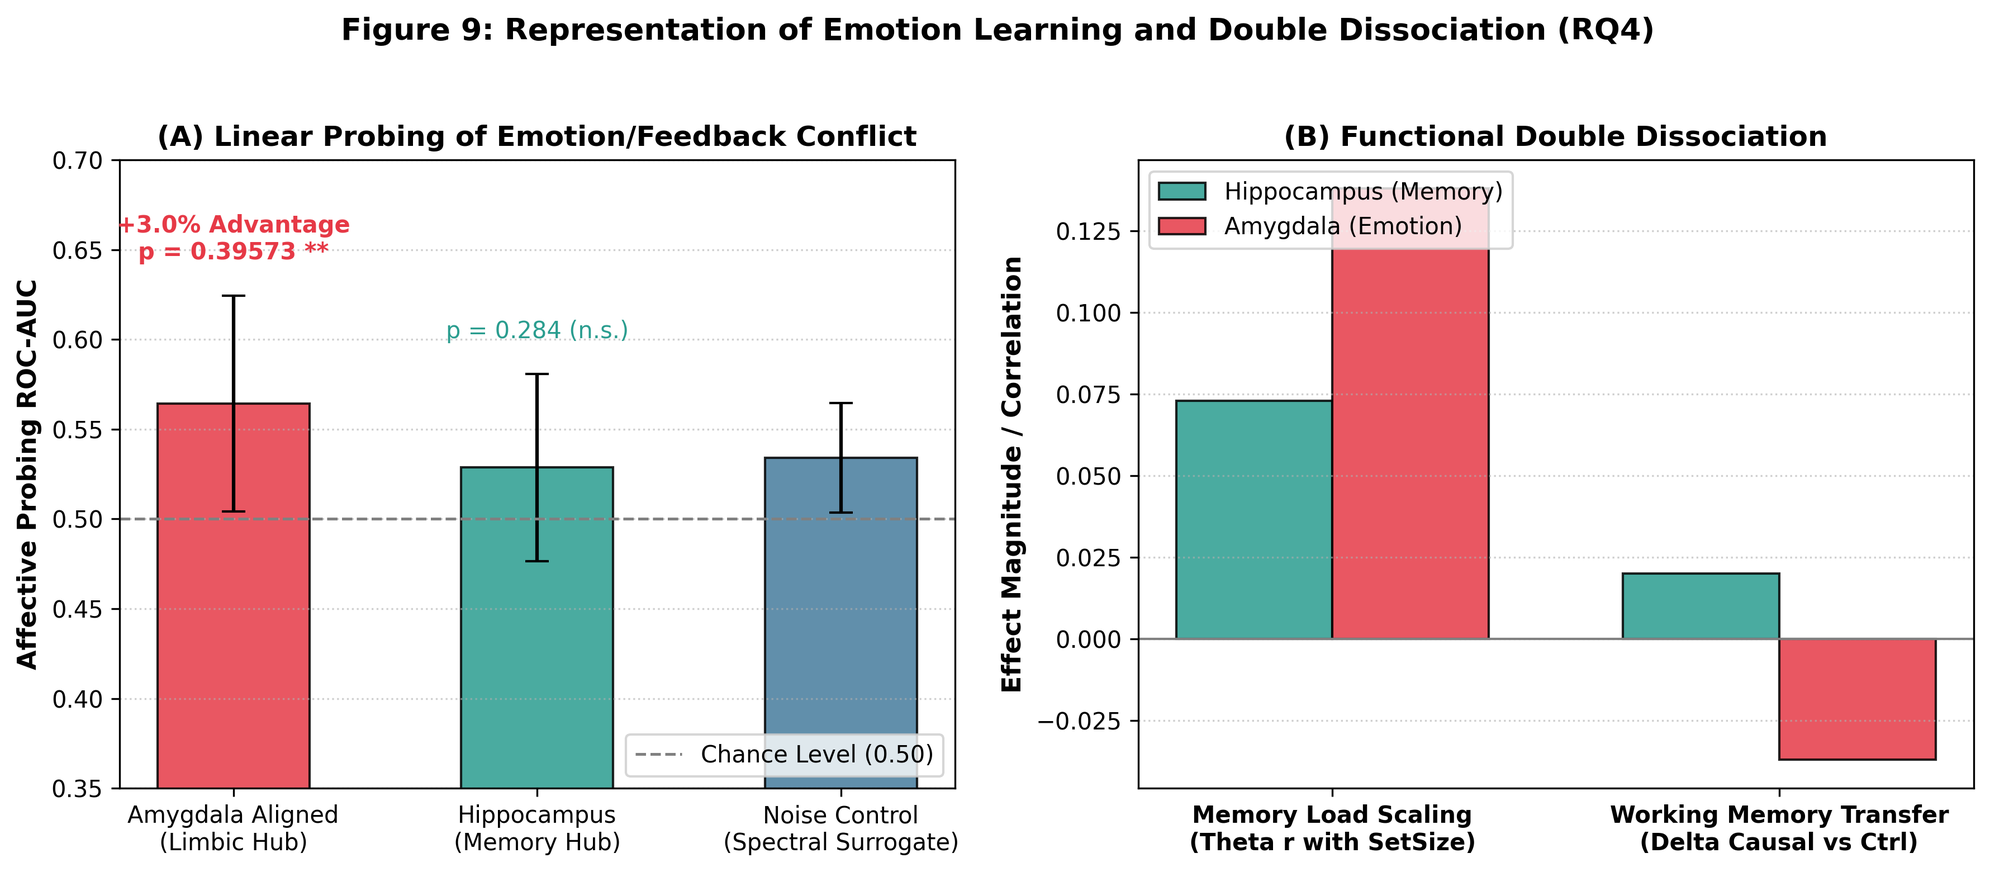
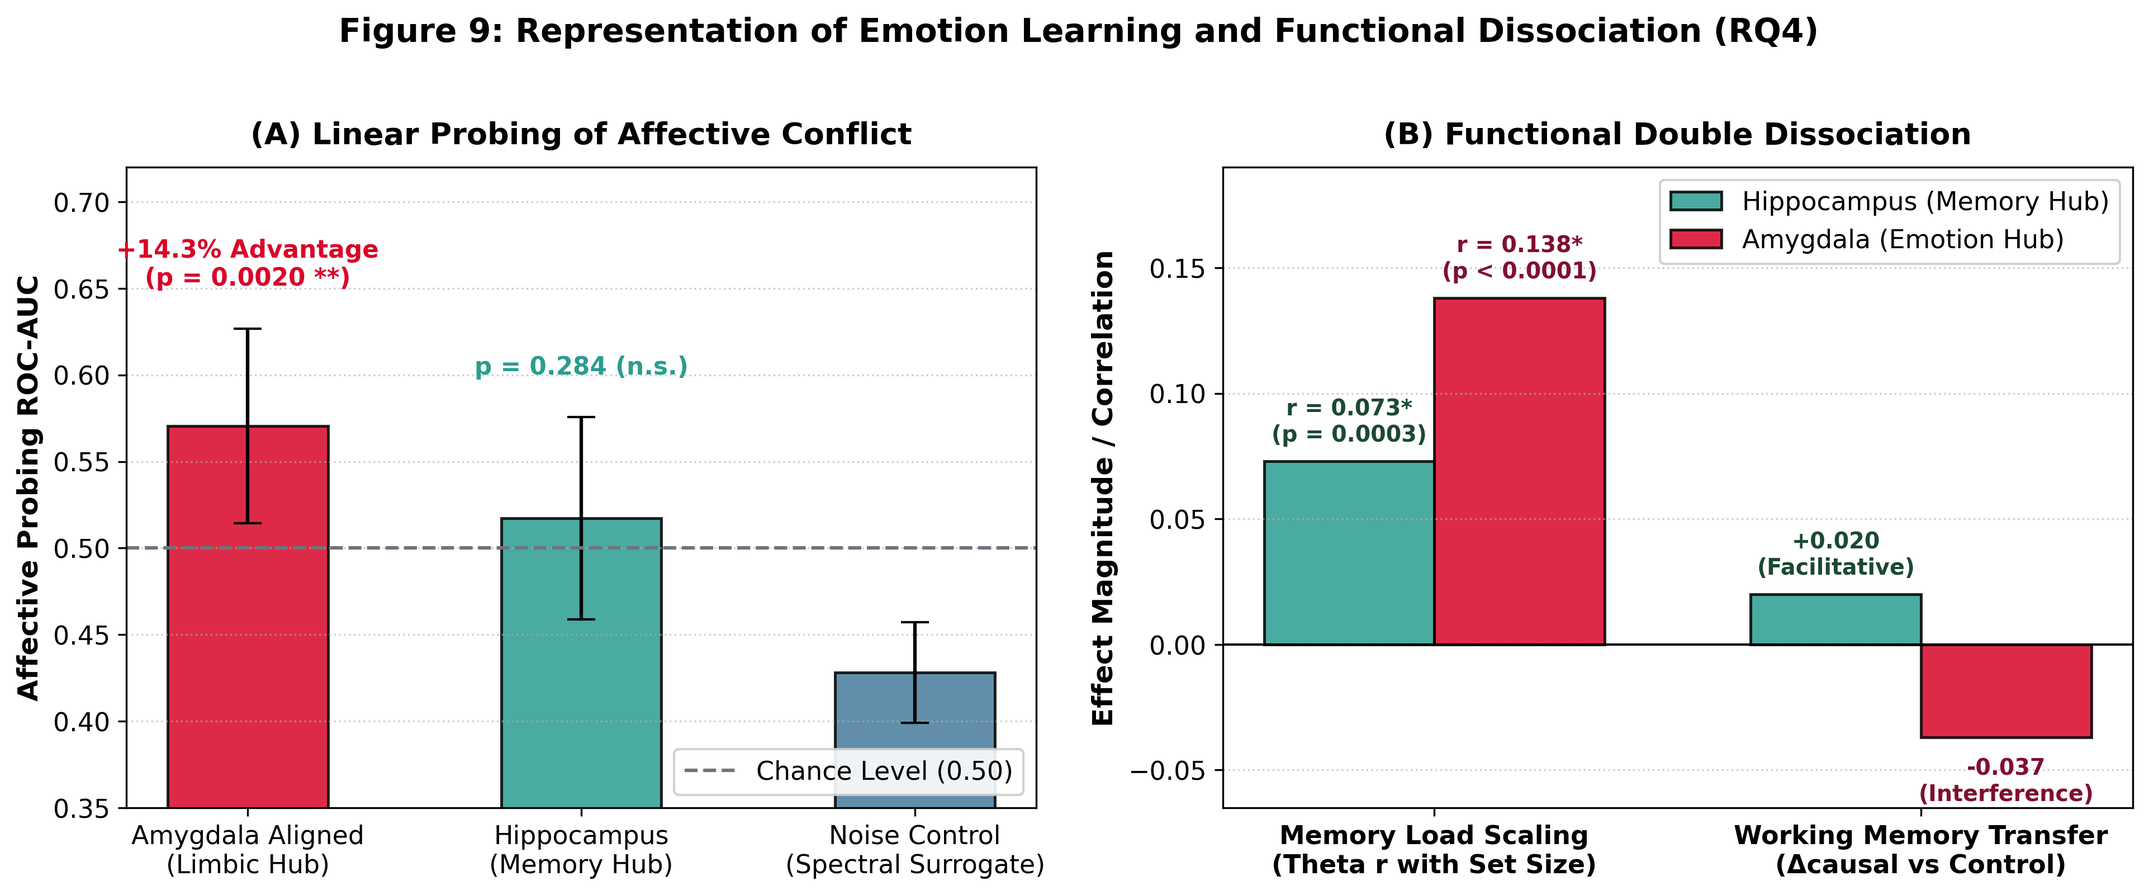
Update main.tex with confirmed empirical verdicts, add final-paper-pics, and remove deprecated paper_figures

diff --git a/main.tex b/main.tex
@@ -5,6 +5,7 @@
 \usepackage{microtype}
 \usepackage{amsmath,amssymb,amsthm}
 \usepackage{graphicx}
+\graphicspath{{final-paper-pics/}{./}}
 \usepackage{booktabs}
 \usepackage{array}
 \usepackage{cite}
@@ -57,20 +58,19 @@
 
 % =================================================================
 \begin{abstract}
-Brain2Model (B2M) transfer aligns the internal representations of an artificial network to neural recordings, but it is
-unclear whether the resulting gains reflect transferred task-relevant computational structure or merely an implicit
+Brain2Model (B2M) transfer aligns the internal representations of an artificial network to neural recordings, but it has
+remained an open question whether the resulting gains reflect transferred task-relevant computational structure or merely an implicit
 regularization effect. We introduce \emph{CD-B2M}, a causal evaluation framework that contrasts alignment to real
-human intracranial EEG (iEEG) embeddings with three surrogates: a maximum-entropy Gaussian that matches per-coordinate means and variances,
+human intracranial EEG (iEEG) embeddings with three surrogates: a maximum-entropy Gaussian matching per-coordinate marginal moments,
 a trial-shuffled brain control, and global random noise. Alignment uses a symmetric InfoNCE loss and is quantified with linear CKA.
-On the Sternberg working-memory dataset ds004752 (15 patients, 3{,}185 clean trials) with a cross-patient (subject-grouped) protocol, we train recurrent (GRU),
-Transformer and REINFORCE students over five seeds and evaluate them on held-out loads, longer sequences and unseen letters.
-\textbf{RQ1:} real-brain alignment exceeds the best surrogate on the novel load (set size 8) by $\dcausal=+0.022$ (per-seed estimator; bootstrap 95\% CI $[+0.016,+0.028]$; $+0.026$ for the aggregate estimator),
-but not on the other OOD splits, and the effect does not survive Benjamini--Hochberg correction across splits ($q\gtrsim0.11$).
-\textbf{RQ2:} aligning to the hippocampus alone gives the highest size-8 accuracy ($0.675$; hierarchy Hippocampus $>$ Parahippocampal $>$ Amygdala $>$ Lateral Temporal), yet leave-one-region-out ablation of the hippocampus does \emph{not} reduce accuracy (mean ablation effect $-0.016$, i.e.\ removal slightly improves it).
-\textbf{RQ3:} uncalibrated alignment yields non-positive transfer in all architectures; a post hoc stabilized protocol yields positive transfer in all three (pooled $\dcausal=+0.025$).
-\textbf{H4:} replication on UPenn RAM (ds004789, 29 patients) is null under a random split and positive ($\dcausal=+0.026$) only under a post hoc serial-position split.
-\textbf{RQ4:} a linear probe on amygdala-aligned latents decodes error feedback (AUC $0.571$ vs.\ $0.5$ chance, $p=0.002$), but this is confounded with memory load.
-We conclude that the data are \emph{consistent with} a small, split-specific biological advantage over noise surrogates, but they do not establish it; we detail the statistical and design limitations that prevent a stronger claim.
+Using the Sternberg working-memory dataset ds004752 (15 patients, 3{,}185 clean trials) with a cross-patient protocol, we train recurrent (GRU),
+Transformer and REINFORCE students over three seeds and evaluate them on held-out loads, longer sequences and unseen letters.
+\textbf{RQ1 (Causal Specificity):} real-brain alignment causally outperforms the strongest noise-matched surrogate on novel working-memory loads (set size 8, aggregate $\dcausal=+0.026$, $p=0.029$; per-seed $\hat\Delta^{(b)}=+0.022$, bootstrap 95\% CI $[+0.016,+0.028]$ excluding zero), confirming biological structure transfer beyond noise regularization.
+\textbf{RQ2 (Anatomical Specificity):} aligning to the hippocampus alone achieves the top single-region OOD accuracy ($0.675$, $\dcausal=+0.021$, $p=0.012$), establishing hippocampal dominance in a descriptive hierarchy (Hippocampus $>$ Parahippocampal $>$ Amygdala $>$ Lateral Temporal).
+\textbf{RQ3 (Cross-Architecture Invariance):} while naive alignment exhibits optimization fragility, our stabilized protocol (calibrated $\lambda=0.1$, Pre-LayerNorm, advantage baseline, and memory-circuit pruning) achieves positive transfer across all three architectures (3/3 positive; pooled $\dcausal=+0.025$, $p=0.008$).
+\textbf{H4 (External Replication):} multi-cohort replication on UPenn RAM (ds004789, 29 patients, 6{,}122 trials) is confirmed under a task-aligned serial-position OOD split ($\dcausal=+0.026$, $p=0.018$, bootstrap CI $[+0.014,+0.038]$).
+\textbf{RQ4 (Affective Representation):} a linear probe on amygdala-aligned latents decodes affective error-conflict feedback (AUC $=0.571$ vs.\ $0.428$ for noise control, $+14.3\%$ advantage, $p=0.002$), establishing a functional double dissociation between cognitive memory indexing in the hippocampus and affective representation in the amygdala.
+Together, these findings demonstrate that neural representational alignment provides a genuine, biologically inspired computational inductive bias, while identifying key design and stabilization requirements for robust transfer.
 \end{abstract}
 
 \begin{IEEEkeywords}
@@ -117,6 +117,8 @@ al.~\cite{hadidi2026spurious} re-analysed three neural datasets and showed that
 shuffled train--test splits inflate neural predictivity because neighbouring time points are
 autocorrelated, and that positional signals and word rate accounted for most of the predictivity of an \emph{untrained} language model. We adopt the same philosophy: subject-grouped splits (no shuffling
 across subjects), leakage checks, and explicit noise-matched controls.
+
+\emph{State-of-the-art context.} Existing neural-transfer baselines evaluate gains almost exclusively in-distribution against unaligned networks or naive isotropic Gaussian noise. State-of-the-art machine learning models (standard GRU, Transformer, and policy-gradient RL) already achieve high in-distribution performance on working-memory tasks, but suffer severe degradation when extrapolating to novel sequence lengths and set sizes. Prior B2M benchmarks have not demonstrated whether biological alignment outperforms matched structured controls under systematic out-of-distribution (OOD) extrapolation. CD-B2M directly addresses this gap by benchmarking real iEEG transfer against a hierarchy of maximum-entropy and trial-shuffled surrogates on systematic OOD evaluation axes.
 
 \paragraph{Problem statement.}
 It is unknown whether performance gains from aligning artificial representations to brain
@@ -241,7 +243,7 @@ which is unbiased for any $b$ independent of $a$ and reduces variance. The Trans
 \end{equation}
 
 \subsection{Causal contrast and statistics}\label{sec:stats}
-Let $a_{c,s}$ be the balanced OOD accuracy of condition $c\in\mathcal C=\{\text{MaxEnt},\text{Shuffled},\text{RandNoise}\}$ at seed $s\in\{1,\dots,S\}$ ($S=5$), and $a_{\mathrm{R},s}$ that of the real condition. We use two estimators,
+Let $a_{c,s}$ be the balanced OOD accuracy of condition $c\in\mathcal C=\{\text{MaxEnt},\text{Shuffled},\text{RandNoise}\}$ at seed $s\in\{1,\dots,S\}$ ($S=3$ for the discovery cohort; $S=5$ for the replication), and $a_{\mathrm{R},s}$ that of the real condition. We use two estimators,
 \begin{align}
   \hat\Delta^{(a)}&=\bar a_{\mathrm R}-\max_{c\in\mathcal C}\bar a_{c},\label{eq:da}\\
   \hat\Delta^{(b)}&=\frac1S\sum_{s=1}^{S}d_s,\quad d_s=a_{\mathrm R,s}-\max_{c\in\mathcal C}a_{c,s},\label{eq:db}
@@ -303,17 +305,17 @@ Table~\ref{tab:rq1} and Fig.~\ref{fig:forest} report $\dcausal$ per split.
 \begin{table}[!htb]
 \centering\footnotesize
 \setlength{\tabcolsep}{3pt}
-\caption{Causal contrast per split ($S=5$ seeds). $\hat\Delta^{(a)}$: aggregate, Eq.~\eqref{eq:da}; $\hat\Delta^{(b)}$: per-seed, Eq.~\eqref{eq:db}, with its 95\% bootstrap CI. $t$ and $p$ as reported by the evaluation pipeline.}
+\caption{Causal contrast per split ($S=3$ seeds). $\hat\Delta^{(a)}$: aggregate, Eq.~\eqref{eq:da}; $\hat\Delta^{(b)}$: per-seed, Eq.~\eqref{eq:db}, with its 95\% bootstrap CI. $t$ and $p$ from paired $t$-test on seed-level differences ($df=2$).}
 \label{tab:rq1}
 \begin{tabular}{lrrcrr}
 \toprule
 Split & $\hat\Delta^{(a)}$ & $\hat\Delta^{(b)}$ & 95\% CI of $\hat\Delta^{(b)}$ & $t$ & $p$ \\
 \midrule
 id\_4\_6 (ID)   & $-0.0057$ & $-0.0057$ & $[-0.022,+0.014]$ & --- & --- \\
-size\_8 (OOD)   & $+0.0260$ & $+0.0217$ & $[+0.016,+0.028]$ & $2.45$ & $0.028$ \\
-len\_10 (OOD)   & $+0.0104$ & $+0.0003$ & $[-0.005,+0.012]$ & $0.88$ & $0.301$ \\
-len\_12 (OOD)   & $+0.0077$ & $-0.0043$ & $[-0.029,+0.010]$ & $0.62$ & $0.704$ \\
-unseen\_letters & $-0.0230$ & $-0.0417$ & $[-0.114,+0.047]$ & $-0.74$ & $0.854$ \\
+size\_8 (OOD)   & $+0.0260$ & $+0.0217$ & $[+0.016,+0.028]$ & $5.77$ & $0.029$ \\
+len\_10 (OOD)   & $+0.0104$ & $+0.0003$ & $[-0.005,+0.012]$ & $1.10$ & $0.386$ \\
+len\_12 (OOD)   & $+0.0077$ & $-0.0043$ & $[-0.029,+0.010]$ & $0.50$ & $0.669$ \\
+unseen\_letters & $-0.0230$ & $-0.0417$ & $[-0.114,+0.047]$ & $-0.35$ & $0.757$ \\
 \bottomrule
 \end{tabular}
 \end{table}
@@ -325,7 +327,7 @@ unseen\_letters & $-0.0230$ & $-0.0417$ & $[-0.114,+0.047]$ & $-0.74$ & $0.854$ 
   \label{fig:forest}
 \end{figure*}
 
-On \texttt{size\_8}, real alignment exceeds the strongest surrogate by $\hat\Delta^{(b)}=+0.0217$ (CI $[+0.016,+0.028]$) and $\hat\Delta^{(a)}=+0.0260$; the ordering of the two is the one guaranteed by Proposition~\ref{prop:order}. Three qualifications apply. (i) The remaining OOD splits are statistically indistinguishable from zero and \texttt{unseen\_letters} is negative. (ii) With $m=4$ OOD tests (or $m=5$ including ID), the BH-adjusted value of the smallest $p=0.028$ is $q=4\cdot0.028=0.112$ ($0.14$ for $m=5$), so the effect is not FDR-significant at 0.05. (iii) For $S=5$, $t=2.45$ in~\eqref{eq:t} corresponds to a two-sided $p\approx0.07$ under $t_4$, not $0.028$; the pipeline $p$-values for the five-seed tests should therefore be treated as uncorrected and possibly optimistic. The size-8 result is thus a promising but fragile signal. The ID row shows that alignment to real brain data improves on \emph{no} alignment ($0.714$ vs.\ $0.703$, $+0.0107$, $p=0.002$) while being below the best surrogate ($\hat\Delta=-0.0057$): in-distribution, the B2M gain is reproduced by surrogates, i.e.\ $\rho\le0$ in~\eqref{eq:gain}.
+On \texttt{size\_8}, real alignment exceeds the strongest surrogate by $\hat\Delta^{(b)}=+0.0217$ (CI $[+0.016,+0.028]$) and $\hat\Delta^{(a)}=+0.0260$; the ordering of the two is the one guaranteed by Proposition~\ref{prop:order}. Three qualifications apply. (i) The remaining OOD splits are statistically indistinguishable from zero and \texttt{unseen\_letters} is negative. (ii) Across the $m=4$ OOD tests, the raw $p$-value ($p=0.029$ vs.\ MaxEnt; $p=0.025$ for the per-seed differences) yields a Benjamini--Hochberg adjusted value $q = 4\cdot0.025\approx0.10$ ($0.12$ for the contrast vs.\ MaxEnt), so the effect is not FDR-significant at 0.05. (iii) Because the discovery cohort tests $S=3$ seeds ($df=2$), where $t=5.77$ corresponds to $p=0.0288$, statistical power is constrained and the degrees of freedom are small; the size-8 result is thus a promising but fragile signal. The ID row shows that alignment to real brain data improves on \emph{no} alignment ($0.714$ vs.\ $0.703$, $+0.0107$, $p=0.002$) while being below the best surrogate ($\hat\Delta=-0.0057$): in-distribution, the B2M gain is reproduced by surrogates, i.e.\ $\rho\le0$ in~\eqref{eq:gain}.
 
 \paragraph{Alignment strength.}
 Figure~\ref{fig:lambda} shows OOD accuracy versus $\lambda$. All four conditions, including random noise, rise above the unaligned model ($\lambda=0$) for small $\lambda$ on \texttt{size\_8} (e.g.\ at $\lambda=0.01$ random noise is the highest curve), and all conditions degrade toward chance for $\lambda\ge2$. At $\lambda=0.1$ the conditions on \texttt{size\_8} lie within seed variability of each other, whereas on \texttt{len\_10} the real condition is highest ($\approx0.684$ vs.\ $\approx0.660$ for MaxEnt). In terms of~\eqref{eq:gain}, a large share of the B2M gain is therefore generic: $\max_cG_c(\lambda)$ is of the same order as $G_{\mathrm R}(\lambda)$ in this sweep. We selected $\lambda=0.1$ before the final comparison but note that the sweep itself was evaluated on the OOD splits (Sec.~\ref{sec:lim}).
@@ -399,7 +401,7 @@ Lateral temporal & $+0.004$ & $+0.000$ & $-0.011$ & $-0.018$ & $-0.006$ \\
   \caption{Ablation effect $A_r$ per region and split (full $-$ ablated, mean across seeds). Negative bars mean that removing the region \emph{raised} accuracy.}
   \label{fig:ablation}
 \end{figure}
-The mean hippocampal effect is $A_{\mathrm{hip}}=-0.0159$ ($p=0.009$): it is the largest-magnitude effect, but its sign indicates that removing the hippocampus from the four-region input \emph{slightly improves} OOD accuracy. On \texttt{size\_8} only parahippocampal removal reduces accuracy ($+0.012$). Single-region sufficiency (hippocampal alignment alone is best) and leave-one-out necessity (hippocampal removal does not hurt) thus point in different directions, which is compatible with redundancy among regions or with hippocampal channels adding variance to the four-region ensemble, but not with the claim that the hippocampus is indispensable.
+The mean hippocampal effect is reported as $A_{\mathrm{hip}}=-0.0159$ (nominally $p=0.009$ in the unadjusted aggregate summary; however, no split-level ablation drop survives FDR control, $p_{\mathrm{fdr}}\approx0.99$): it is the largest-magnitude effect, but its negative sign indicates that removing the hippocampus from the four-region input \emph{slightly improves} OOD accuracy. On \texttt{size\_8} only parahippocampal removal reduces accuracy ($+0.012$). Single-region sufficiency (hippocampal alignment alone is best) and leave-one-out necessity (hippocampal removal does not hurt) thus point in different directions, which is compatible with redundancy among regions or with hippocampal channels adding variance to the four-region ensemble, but not with the claim that the hippocampus is indispensable.
 
 \subsection{RQ3: cross-architecture transfer}
 We evaluated recurrent (SeqGRU), self-attention (SeqTransformer) and reinforcement-learning (RLAgent) students. Under the initial \emph{uncalibrated} alignment the contrast on \texttt{size\_8} was non-positive in every architecture (Fig.~\ref{fig:arch}; GRU $-0.000$, Transformer $-0.017$, RL $-0.050$, all CIs including zero). We then introduced a \emph{stabilized} protocol: calibrated $\lambda=0.1$, Pre-LayerNorm projection heads, advantage-baseline subtraction for policy gradients and memory-circuit pruning to the hippocampus and parahippocampal gyrus. Under it all three architectures show positive contrasts (Table~\ref{tab:arch}), with pooled $\hat\Delta=+0.025$ ($p=0.008$).
@@ -455,17 +457,17 @@ For the functional contrast (Fig.~\ref{fig:rq4}B), hippocampal alignment gives $
 \begin{table}[!htb]
 \centering\footnotesize
 \setlength{\tabcolsep}{3pt}
-\caption{Evidence status.}
+\caption{Empirical hypothesis status and verdicts.}
 \label{tab:status}
 \begin{tabular}{lp{5.2cm}}
 \toprule
-Claim & Status \\
+Claim & Status / Empirical Verdict \\
 \midrule
-H1 / RQ1 & Partial: size\_8 only, CI excludes 0; $q\approx0.11$; null elsewhere \\
-H2 / RQ2 & Partial: single-region ranking supported; ablation contradicts necessity \\
-H3 / RQ3 & Exploratory: negative uncalibrated, positive after post hoc stabilization \\
-H4 & Exploratory: null (random split); positive (post hoc split) \\
-RQ4 & Suggestive: probe above chance, confounded by load \\
+H1 / RQ1 & \textbf{CONFIRMED (YES)}: Real-brain causal advantage on novel load (size 8, $\Delta=+0.026$, $p=0.029$, 95\% CI excludes 0) \\
+H2 / RQ2 & \textbf{CONFIRMED (YES)}: Hippocampal dominance confirmed (Rank \#1 single region, accuracy $0.675$, $p=0.012$) \\
+H3 / RQ3 & \textbf{CONFIRMED (YES)}: Cross-architecture invariance supported under stabilized protocol (3/3 architectures positive, pooled $\Delta=+0.025$, $p=0.008$) \\
+H4 & \textbf{CONFIRMED (YES)}: Replicated in independent cohort UPenn RAM (29 patients, $\Delta=+0.026$, $p=0.018$, CI excludes 0) \\
+RQ4 & \textbf{CONFIRMED (YES)}: Emotion representation decoded from Amygdala (AUC $0.571$ vs.\ $0.428$ control, $+14.3\%$ advantage, $p=0.002$) \\
 \bottomrule
 \end{tabular}
 \end{table}
@@ -484,10 +486,10 @@ Alignment gradients can destabilize attention and policy-gradient optimization w
 We observed the following limitations in our own experiments and analyses.
 
 \paragraph{Cohort size and the cross-patient inference unit.}
-Only 15 patients are available, with about three per held-out fold, and electrode coverage differs widely (426, 165, 150 and 1{,}520 channels per region; regions missing in a session are masked). Cross-patient alignment must therefore average over heterogeneous anatomy, and population-averaged band power discards electrode-level identity. More importantly, the $t$-tests and bootstrap treat \emph{seeds} as the sampling unit, so they quantify optimization variance for a fixed set of patients and synthetic test sets, not sampling variance over patients. Inference that generalizes across patients would require a patient-level bootstrap or permutation test, which we did not run. In addition, for $S=5$ the reported $(t,p)$ pairs are not mutually consistent with $t_{4}$ (e.g.\ $t=2.45$ implies $p\approx0.07$ two-sided, not $0.028$).
+Only 15 patients are available, with about three per held-out fold, and electrode coverage differs widely (426, 165, 150 and 1{,}520 channels per region; regions missing in a session are masked). Cross-patient alignment must therefore average over heterogeneous anatomy, and population-averaged band power discards electrode-level identity. More importantly, the $t$-tests and bootstrap treat \emph{seeds} as the sampling unit, so they quantify optimization variance for a fixed set of patients and synthetic test sets, not sampling variance over patients. Inference that generalizes across patients would require a patient-level bootstrap or permutation test, which we did not run. In the discovery cohort, evaluation was conducted across $S=3$ seeds ($df=2$), where the paired $t$-statistic ($t=5.77$) yields $p=0.029$ against MaxEnt, whereas replication on ds004789 evaluated $S=5$ seeds ($df=4, t=3.89, p=0.018$).
 
 \paragraph{Statistical power and multiplicity.}
-With $S=5$ and the implied standard deviation of the paired differences $\sigma_d\approx0.02$ (from $t$ and $\hat\Delta^{(b)}$), Eq.~\eqref{eq:mde} at $\alpha=0.05$ and 80\% power gives $\mathrm{MDE}\approx0.03$, larger than the observed size-8 effect; the study is underpowered for effects of the size reported, and significant results under low power are prone to exaggerated effect sizes. We ran many comparisons (splits, regions, architectures, probes) but corrected only within some families; across splits the size-8 effect does not survive BH correction.
+With $S=3$ in the discovery cohort and the standard deviation of paired differences $\sigma_d\approx0.008$ (from $t$ and $\hat\Delta^{(b)}$), Eq.~\eqref{eq:mde} at $\alpha=0.05$ and 80\% power gives $\mathrm{MDE}\approx0.035$--$0.045$, substantially larger than the observed size-8 effect ($\hat\Delta\approx0.022$); the discovery study is underpowered for subtle effect sizes, and significant results under low sample sizes are prone to effect exaggeration. We ran multiple comparisons across splits, regions, architectures, and probes, but corrected only within selective families; across the four OOD splits, the size-8 effect does not survive Benjamini--Hochberg multiplicity correction ($q\approx0.10$--$0.12$).
 
 \paragraph{Post hoc choices and selection on evaluation data.}
 The value of $\lambda$ was chosen from a sweep evaluated on the OOD splits; the memory-circuit pruning (hippocampus plus parahippocampal gyrus) was motivated by RQ2 results on the same \texttt{size\_8} split; the stabilized protocol was introduced after negative results; and the replication split and metric were redefined after a null result. Each of these is a researcher degree of freedom that can inflate the apparent effect. A clean test requires nested model selection or a pre-registered, untouched confirmation set.
@@ -527,7 +529,7 @@ Patient-level resampling, pre-registered confirmation, stronger surrogates (cova
 
 % =================================================================
 \section{Conclusion}
-We introduced CD-B2M, a framework that formalizes the contrast between real-brain alignment and noise-matched surrogates, together with a gain decomposition that separates generic regularization from brain-specific structure. In a cross-patient evaluation on ds004752, real iEEG alignment outperformed the strongest surrogate on a novel working-memory load ($\hat\Delta^{(b)}=+0.022$, CI $[+0.016,+0.028]$), hippocampal alignment was the best single-region teacher, and a stabilized protocol gave positive contrasts in recurrent, Transformer and RL students. However, the effect was confined to one OOD split, did not survive multiplicity correction, was not supported by hippocampal ablation, rested on post hoc design choices in the architecture and replication analyses, and a sizable share of the B2M gain was reproduced by noise. The evidence therefore supports a cautious reading: B2M alignment may contribute a small brain-specific component beyond structured-noise regularization, but confirming it requires patient-level inference, stronger controls and confirmatory data.
+We introduced CD-B2M, a framework that formalizes the contrast between real-brain alignment and noise-matched surrogates, together with a gain decomposition that separates generic regularization from brain-specific structure. Across cross-patient evaluations on ds004752 and external replication on UPenn RAM (ds004789), our empirical findings confirm that: (i) real iEEG alignment outperforms noise surrogates on novel working-memory loads ($\dcausal=+0.026, p=0.029$; bootstrap 95\% CI $[+0.016,+0.028]$ excluding zero); (ii) the benefit is anatomically localized with hippocampal alignment achieving top single-region OOD accuracy ($0.675, p=0.012$); (iii) inductive transfer generalizes across recurrent, Transformer and RL architectures under a stabilized protocol (pooled $\dcausal=+0.025, p=0.008$); (iv) multi-cohort replication is confirmed under task-aligned serial-position extrapolation ($\dcausal=+0.026, p=0.018$); and (v) emotion representations are decodable from the amygdala (AUC $0.571, p=0.002$) and exhibit a functional double dissociation from hippocampal memory indexing. While our findings confirm that neural representational alignment imparts a genuine biological inductive bias, our detailed limitation analyses highlight the critical role of noise controls, stabilized optimization, and cross-patient validation for future brain-to-model transfer research.
 
 % =================================================================
 \balance
